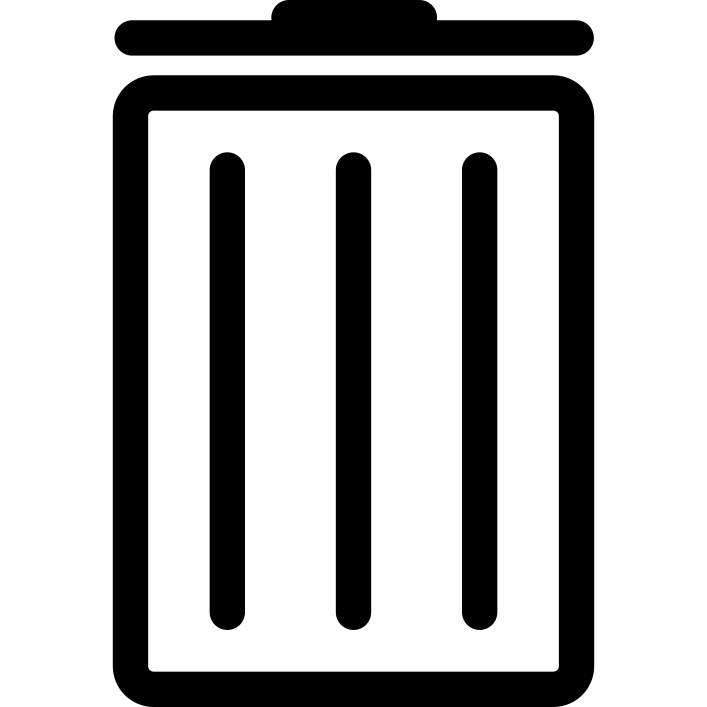
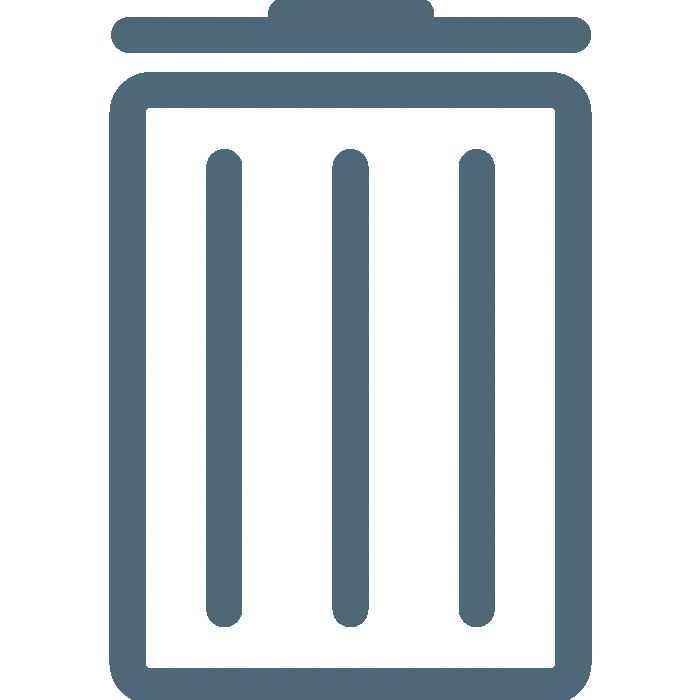
Changement des couleurs de l'interface et des boutons

diff --git a/src/main/java/application/view/element/Button.java b/src/main/java/application/view/element/Button.java
@@ -10,8 +10,11 @@ import application.view.ViewBridge;
  * Represent a basic graphical button, with text inside.
  */
 public class Button extends ViewBridge implements IDrawable {
-    private int x, y, width, height;
-    private String txt;
+    private final int x;
+    private final int y;
+    private final int width;
+    private final int height;
+    private final String txt;
     private boolean pushed;
 
     /**
@@ -38,15 +41,15 @@ public class Button extends ViewBridge implements IDrawable {
     @Override
     public void draw(int xOffset, int yOffset) {
         // Put in two separated functions
+        int test = (int) (width*0.9)/(txt.length() *2);
         if (!pushed) {
-            drawRoundedRectShadow(x + xOffset, y + yOffset, width, height, 20, 2, Color.WHITE);
-            drawText(txt, x + xOffset, y + yOffset + (int) (height * 0.6), (int) (width * 0.9), Color.BLACK);
+            drawRoundedRectShadow(x + xOffset, y + yOffset, width, height, 20, 2, new Color(185,197,213));
         }
 
         else {
             drawRoundedRectShadow(x + xOffset, y + yOffset, width, height, 20, 2, Color.LIGHT_GREY);
-            drawText(txt, x + xOffset, y + yOffset+ (int) (height * 0.6), (int) (width * 0.9), Color.BLACK);
         }
+        drawText(txt, x+ test + xOffset, y + yOffset + (int) (height * 0.6), (int) (width * 0.9), Color.BLACK);
     }
 
 

diff --git a/src/main/java/application/controller/states/EditionMenuState.java b/src/main/java/application/controller/states/EditionMenuState.java
@@ -187,11 +187,11 @@ public class EditionMenuState extends ControllerStateImp {
      */
     private void switchState() {
         switch (menu.getSelectedMenu().getName()) {
-            case "color":
+            case "Color":
                 subState = SubMenuColorState.getInstance();
                 break;
 
-            case "resize":
+            case "Resize":
                 if (menu.getSelectedMenu() instanceof SubMenuResizeRectangle)
                     subState = SubMenuResizeRectangleState.getInstance();
 
@@ -199,15 +199,15 @@ public class EditionMenuState extends ControllerStateImp {
                     subState = SubMenuResizeGlobalState.getInstance();
                 break;
 
-            case "rotate":
+            case "Rotate":
                 subState = SubMenuRotationState.getInstance();
                 break;
 
-            case "numberSide":
+            case "Nb Sides":
                 subState = SubMenuPolygonState.getInstance();
                 break;
 
-            case "round":
+            case "Round":
                 subState = SubMenuRoundState.getInstance();
                 break;
         }

diff --git a/src/main/java/application/view/menu/WhiteBoardMenu.java b/src/main/java/application/view/menu/WhiteBoardMenu.java
@@ -46,16 +46,16 @@ public class WhiteBoardMenu extends ViewBridge implements IDrawable {
      * @param y Top left y coords.
      */
     public void drawWithoutShadow(int x, int y) {
-        drawRoundedRect(x, y, width, items.length * height, 20, Color.WHITE);
+        drawRoundedRect(x, y, width, items.length * height, 20, new Color(230,230,250));
 
         if (currentlySelected != -1) {
-            drawRoundedRect(x, y + currentlySelected * height, width, height, 20, new Color(156, 221, 255));
+            drawRoundedRect(x, y + currentlySelected * height, width, height, 20, new Color(129, 180, 208));
         }
         for (int i = 0; i < items.length; i++) {
             if (i == currentlySelected)
-                drawText(items[i], x + 2, (int) (y + (i + 0.8) * (height)), width, Color.WHITE);
+                drawText(items[i], x + 3, (int) (y + (i + 0.8) * (height)), width, Color.WHITE);
             else
-                drawText(items[i], x + 2, (int) (y + (i + 0.8) * (height)), width, Color.BLACK);
+                drawText(items[i], x + 3, (int) (y + (i + 0.8) * (height)), width, Color.BLACK);
         }
     }
 

diff --git a/src/main/java/application/view/areas/WhiteBoardView.java b/src/main/java/application/view/areas/WhiteBoardView.java
@@ -54,17 +54,18 @@ public class WhiteBoardView extends ViewBridge implements ModelObserver {
      * Draw the whiteboard.
      */
     public void draw() {
-        drawRectangle(area);
-
-        drawRectangle(
-                new Rectangle(
-                        area.getMinX() + Layout.BORDER,
-                        area.getMinY() + Layout.BORDER,
-                        area.getWidth() - 2 * Layout.BORDER,
-                        area.getHeight() - 2 * Layout.BORDER,
-                        Color.WHITE
-                )
+        area.setRoundValue(5);
+        drawRoundedRect(area);
+        Rectangle test = new Rectangle(
+                area.getMinX() + Layout.BORDER,
+                area.getMinY() + Layout.BORDER,
+                area.getWidth() - 2 * Layout.BORDER,
+                area.getHeight() - 2 * Layout.BORDER,
+                Color.WHITE
         );
+        test.setRoundValue(5);
+
+        drawRoundedRect(test);
 
         drawSelectedShapes(selectedShapes);
 

diff --git a/src/main/java/application/view/areas/ToolBarView.java b/src/main/java/application/view/areas/ToolBarView.java
@@ -55,19 +55,15 @@ public class ToolBarView extends ViewBridge implements ModelObserver {
      * Draw the toolbar.
      */
     public void draw() {
-        drawRectangle(area);
-
-        drawRectangle(
-                new Rectangle(
-                        area.getMinX() + Layout.BORDER,
-                        area.getMinY() + Layout.BORDER,
-                        area.getWidth() - 2 * Layout.BORDER,
-                        area.getHeight() - 2 * Layout.BORDER,
-                        Color.WHITE
-                )
+        drawRoundedRectShadow((int)area.getMinX(),
+                              (int)area.getMinY(),
+                        (int)area.getWidth()-2*Layout.BORDER,
+                        (int) area.getHeight()-2*Layout.BORDER,
+                      5,
+                     2*Layout.BORDER,
+                               new Color(230,230,250)
         );
 
-        
         int index = 0;
 
         for (Shape shape:toolBar.getInnerShapes()) {

diff --git a/src/main/java/application/view/menu/SubMenuColor.java b/src/main/java/application/view/menu/SubMenuColor.java
@@ -65,11 +65,11 @@ public class SubMenuColor extends ViewBridge implements EditionSubMenu {
         this.x = x;
         this.y = y;
 
-        drawRoundedRectShadow(x, y, width, height, 20, 2, Color.WHITE);
+        drawRoundedRectShadow(x, y, width, height, 20, 2, new Color(230,230,250));
 
-        drawText("R", x + 5, y + height/8, 15, Color.BLACK);
-        drawText("G", x + 5, y + 2 * height/8, 15, Color.BLACK);
-        drawText("B", x + 5, y + 3 * height/8, 15, Color.BLACK);
+        drawText("R", x + 8, y + height/8, 15, Color.BLACK);
+        drawText("G", x + 8, y + 2 * height/8, 15, Color.BLACK);
+        drawText("B", x + 8, y + 3 * height/8, 15, Color.BLACK);
 
         Rslider.draw(x, y);
         Gslider.draw(x, y);
@@ -158,6 +158,6 @@ public class SubMenuColor extends ViewBridge implements EditionSubMenu {
 
     @Override
     public String getName() {
-        return "color";
+        return "Color";
     }
 }

diff --git a/src/main/java/application/view/areas/TopBarView.java b/src/main/java/application/view/areas/TopBarView.java
@@ -57,16 +57,13 @@ public class TopBarView extends ViewBridge {
      * Draw the topBar.
      */
     public void draw() {
-        drawRectangle(area);
-
-        drawRectangle(
-                new Rectangle(
-                        area.getMinX() + Layout.BORDER,
-                        area.getMinY() + Layout.BORDER,
-                        area.getWidth() - 2 * Layout.BORDER,
-                        area.getHeight() - 2 * Layout.BORDER,
-                        Color.WHITE
-                )
+        drawRoundedRectShadow((int)area.getMinX(),
+                             (int)area.getMinY(),
+                       (int)area.getWidth()-2*Layout.BORDER,
+                      (int) area.getHeight()-2*Layout.BORDER,
+                     5,
+                    2*Layout.BORDER,
+                              new Color(77,104,119)
         );
 
         drawButtons();

diff --git a/src/main/java/application/view/menu/SubMenuResizeRectangle.java b/src/main/java/application/view/menu/SubMenuResizeRectangle.java
@@ -36,10 +36,10 @@ public class SubMenuResizeRectangle extends ViewBridge implements EditionSubMenu
         this.x = x;
         this.y = y;
 
-        drawRoundedRectShadow(x, y, width, height, 20, 2, Color.WHITE);
+        drawRoundedRectShadow(x, y, width, height, 20, 2,new Color(230,230,250));
 
-        drawText("Width", x + 5, y + height/8, 30, Color.BLACK);
-        drawText("Height", x + 5, y + 2 * height/8, 30, Color.BLACK);
+        drawText("Width", x + 5, y + height/5, 30, Color.BLACK);
+        drawText("Height", x + 5, y + height/3, 30, Color.BLACK);
 
         widthInput.draw(x, y);
         heightInput.draw(x, y);
@@ -94,6 +94,6 @@ public class SubMenuResizeRectangle extends ViewBridge implements EditionSubMenu
 
     @Override
     public String getName() {
-        return "resize";
+        return "Resize";
     }
 }

diff --git a/src/main/java/application/view/menu/SubMenuPolygon.java b/src/main/java/application/view/menu/SubMenuPolygon.java
@@ -36,8 +36,8 @@ public class SubMenuPolygon extends ViewBridge implements EditionSubMenu {
         this.x = x;
         this.y = y;
 
-        drawRoundedRectShadow(x, y, width, height, 20, 2, Color.WHITE);
-        drawText("Number of side", x + 5, y + height/8, 60, Color.BLACK);
+        drawRoundedRectShadow(x, y, width, height, 20, 2, new Color(230,230,250));
+        drawText("Number of sides", x + 5, y + height/5, 65, Color.BLACK);
 
         sizeInput.draw(x, y);
     }
@@ -84,6 +84,6 @@ public class SubMenuPolygon extends ViewBridge implements EditionSubMenu {
 
     @Override
     public String getName() {
-        return "numberSide";
+        return "Nb Sides";
     }
 }

diff --git a/src/main/java/application/view/areas/Layout.java b/src/main/java/application/view/areas/Layout.java
@@ -1,7 +1,7 @@
 package application.view.areas;
 
 import application.model.shape.Rectangle;
-import application.view.MainView;
+import application.utils.Color;
 
 /**
  * Static class that contains the position of elements int the model.
@@ -42,6 +42,7 @@ public class Layout {
                 GAPS,
                 width - 2 * GAPS,
                 TOPBAR_HEIGHT - 2 * GAPS
+               //new Color(77, 104, 119)
         );
     }
 
@@ -56,6 +57,7 @@ public class Layout {
                 TOPBAR_HEIGHT + GAPS,
                 TOOLBAR_WIDTH - 2 * GAPS,
                 height - (TOPBAR_HEIGHT + 2 * GAPS)
+                //new Color(77, 104, 119)
         );
     }
 

diff --git a/src/main/java/application/view/menu/SubMenuResizeGlobal.java b/src/main/java/application/view/menu/SubMenuResizeGlobal.java
@@ -36,8 +36,8 @@ public class SubMenuResizeGlobal extends ViewBridge implements EditionSubMenu {
         this.x = x;
         this.y = y;
 
-        drawRoundedRectShadow(x, y, width, height, 20, 2, Color.WHITE);
-        drawText("Size", x + 5, y + height/8, 30, Color.BLACK);
+        drawRoundedRectShadow(x, y, width, height, 20, 2, new Color(230,230,250));
+        drawText("Size", x + 5, y + height/5, 30, Color.BLACK);
 
         sizeInput.draw(x, y);
     }
@@ -84,6 +84,6 @@ public class SubMenuResizeGlobal extends ViewBridge implements EditionSubMenu {
 
     @Override
     public String getName() {
-        return "resize";
+        return "Resize";
     }
 }

diff --git a/src/main/java/application/view/menu/SubMenuRotate.java b/src/main/java/application/view/menu/SubMenuRotate.java
@@ -35,8 +35,8 @@ public class SubMenuRotate extends ViewBridge implements EditionSubMenu {
         this.x = x;
         this.y = y;
 
-        drawRoundedRectShadow(x, y, width, height, 20, 2, Color.WHITE);
-        drawText("Rotation", x + 5, y + height/8, 30, Color.BLACK);
+        drawRoundedRectShadow(x, y, width, height, 20, 2, new Color(230,230,250));
+        drawText("Rotation", x + 5, y + height/7, 35, Color.BLACK);
 
         slider.draw(x, y);
     }
@@ -84,6 +84,6 @@ public class SubMenuRotate extends ViewBridge implements EditionSubMenu {
 
     @Override
     public String getName() {
-        return "rotate";
+        return "Rotate";
     }
 }
